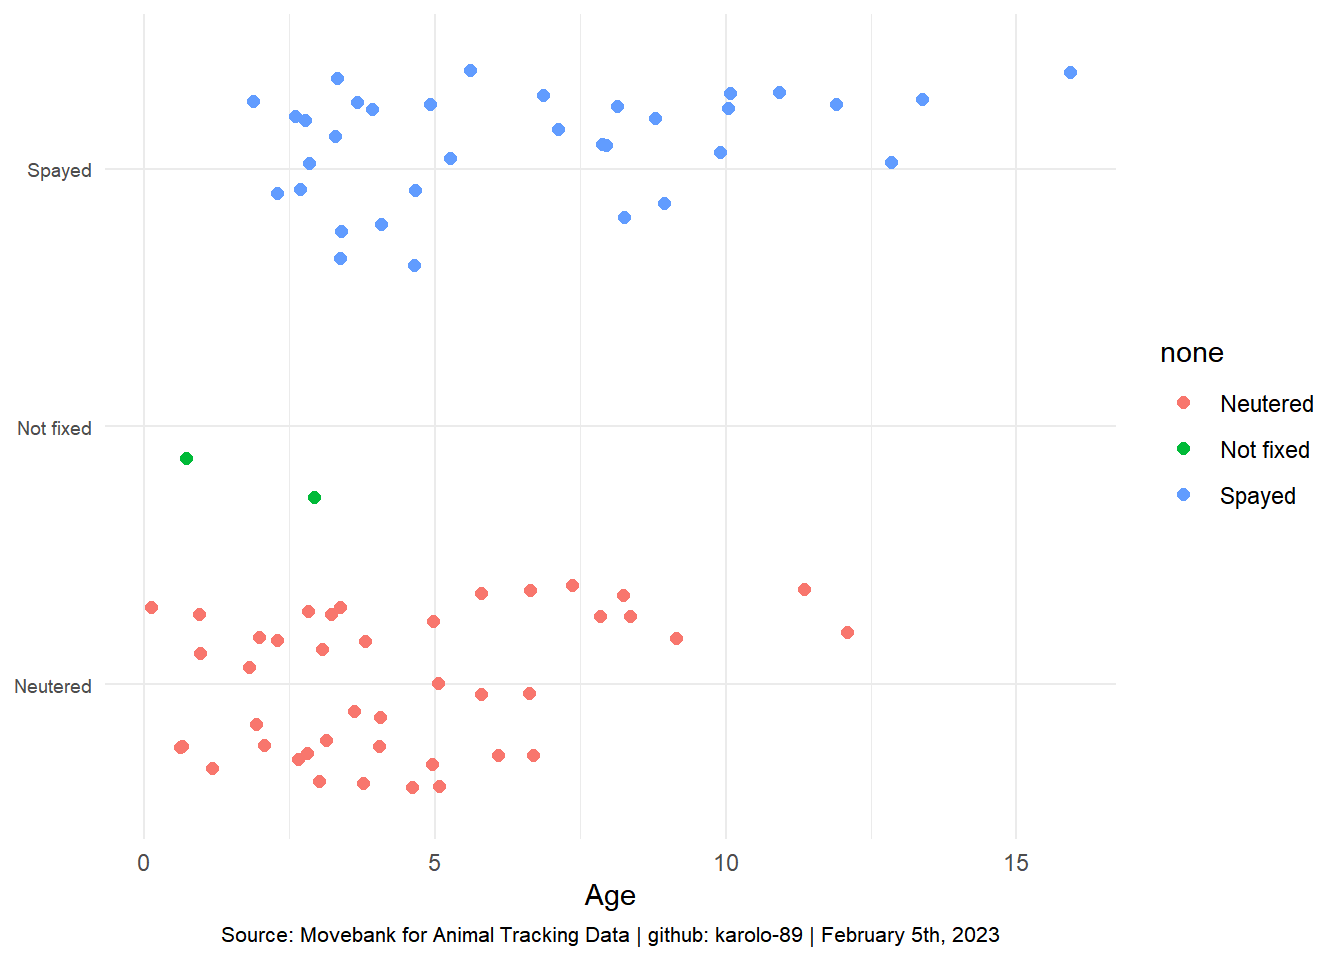
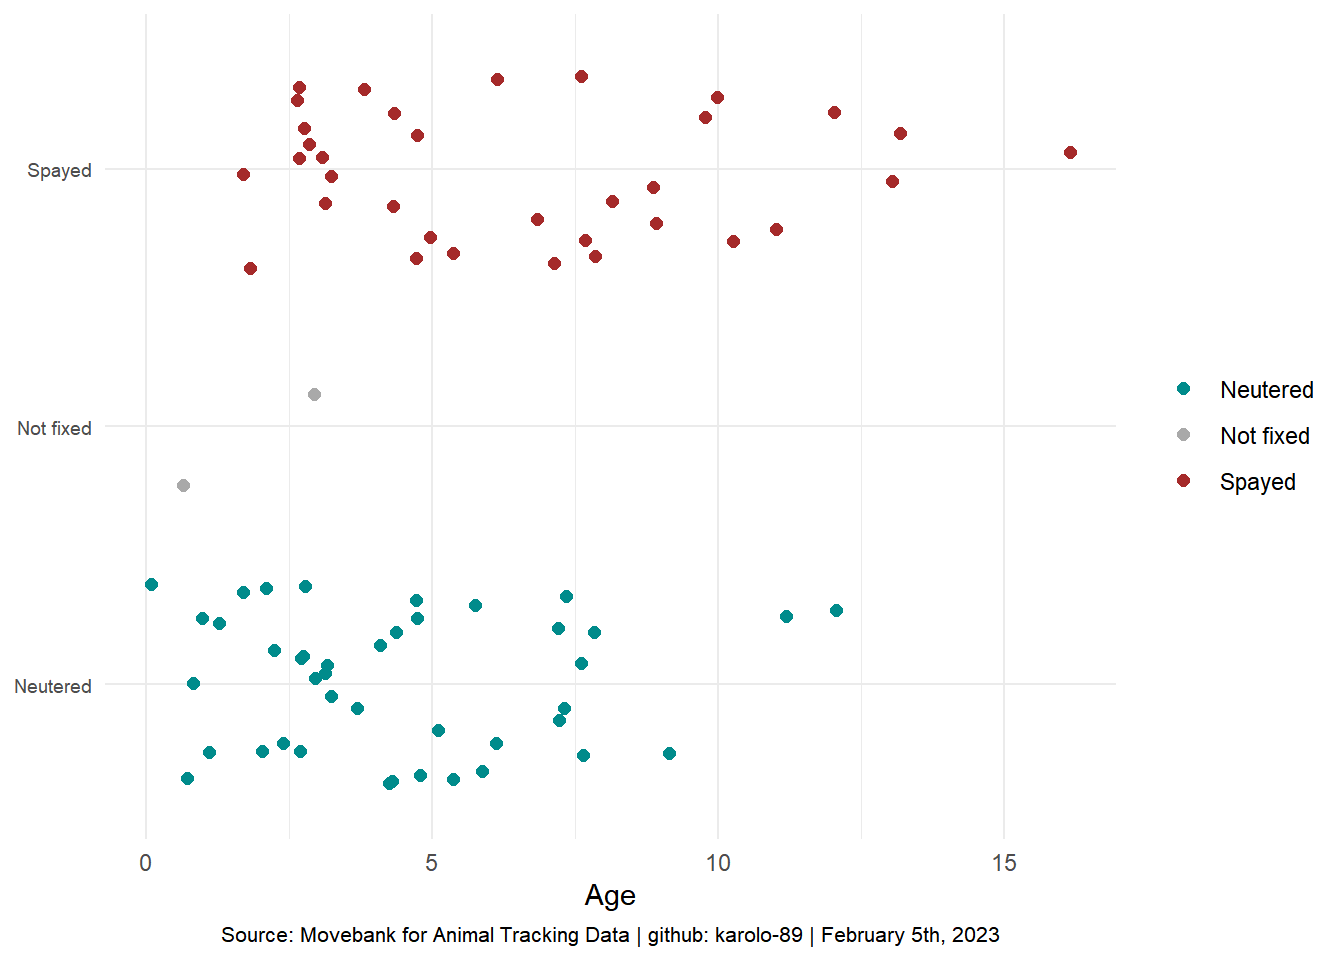
pcat

diff --git a/docs/viz/TidyTuesday/PetCatsUK.html b/docs/viz/TidyTuesday/PetCatsUK.html
@@ -355,7 +355,7 @@ $ age_years                     &lt;int&gt; 11, 3, 3, 10, 7, 7, 6, 2, 4, 4, 8, 1
 <span id="cb6-6"><a href="#cb6-6" aria-hidden="true" tabindex="-1"></a>    <span class="at">y =</span> animal_reproductive_condition,</span>
 <span id="cb6-7"><a href="#cb6-7" aria-hidden="true" tabindex="-1"></a>    <span class="at">colour =</span> animal_reproductive_condition)) <span class="sc">+</span></span>
 <span id="cb6-8"><a href="#cb6-8" aria-hidden="true" tabindex="-1"></a>  <span class="fu">geom_jitter</span>(<span class="at">size =</span> <span class="fl">2.0</span>) <span class="sc">+</span></span>
-<span id="cb6-9"><a href="#cb6-9" aria-hidden="true" tabindex="-1"></a>  <span class="fu">scale_color_hue</span>(<span class="at">name=</span><span class="st">"none"</span>, <span class="at">direction =</span> <span class="dv">1</span>) <span class="sc">+</span></span>
+<span id="cb6-9"><a href="#cb6-9" aria-hidden="true" tabindex="-1"></a>   <span class="fu">scale_color_manual</span>(<span class="at">name=</span> <span class="cn">NULL</span>, <span class="at">values =</span> <span class="fu">c</span>(<span class="st">"cyan4"</span>,<span class="st">"darkgray"</span>,<span class="st">"brown"</span>)) <span class="sc">+</span></span>
 <span id="cb6-10"><a href="#cb6-10" aria-hidden="true" tabindex="-1"></a>    <span class="fu">labs</span>(<span class="at">caption =</span> <span class="st">"Source: Movebank for Animal Tracking Data | github: karolo-89 | February 5th, 2023"</span>,</span>
 <span id="cb6-11"><a href="#cb6-11" aria-hidden="true" tabindex="-1"></a>         <span class="at">x=</span> <span class="st">"Age"</span>) <span class="sc">+</span></span>
 <span id="cb6-12"><a href="#cb6-12" aria-hidden="true" tabindex="-1"></a>  </span>

diff --git a/docs/Resources.html b/docs/Resources.html
@@ -199,7 +199,7 @@ Feb 5, 2023
 </div>
 </a>
 </div>
-<div class="g-col-1" data-index="1" data-listing-date-sort="1675584000000" data-listing-file-modified-sort="1675648179533" data-listing-reading-time-sort="6.445">
+<div class="g-col-1" data-index="1" data-listing-date-sort="1675584000000" data-listing-file-modified-sort="1675648346060" data-listing-reading-time-sort="6.455">
 <a href="./viz/TidyTuesday/PetCatsUK.html" class="quarto-grid-link">
 <div class="quarto-grid-item card h-100 card-left">
 <p class="card-img-top">
